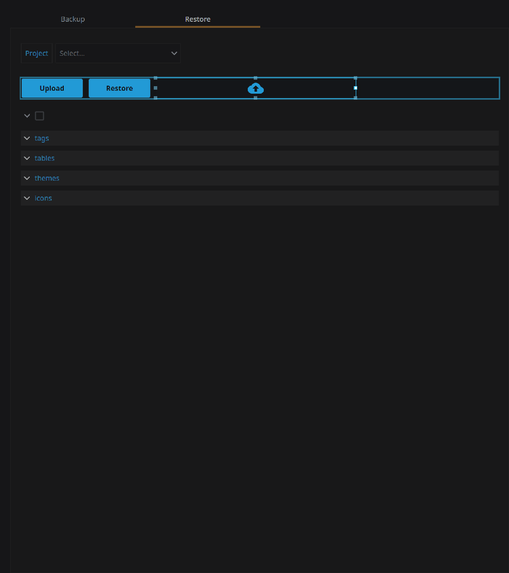
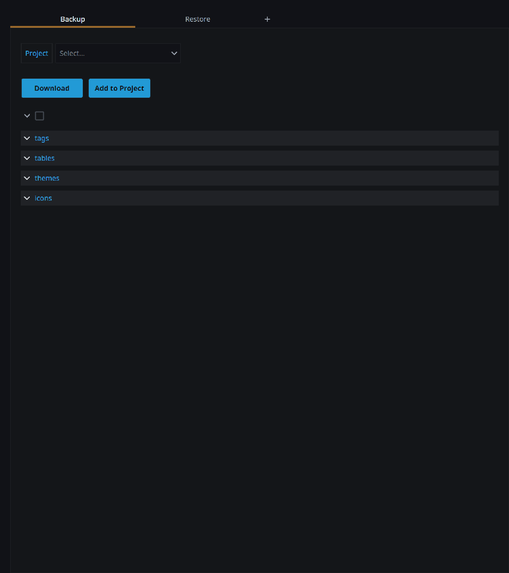
Add restore from zip file

diff --git a/ignition/script-python/backup/util/code.py b/ignition/script-python/backup/util/code.py
@@ -235,27 +235,58 @@ def copyFolder(sourcePath, destinationPath):
 # Company:        A.W. Schultz
 # Date:           June 2023
 #*****************************************************************************************************	
-def getResourceNamesFromProject(resourceType, projectName):
-	"""Copy folder from the temp folder to the project resource folder.
+def getResourceNames(resourcePath):
+	"""Get all file names in a resource folder.
 	
 	Args:
-		resourceType (str): Examples: tags, tables, themes, icons
-		projectName (str): The project name where the resources will be scanned
+		resourcePath (str): Path to directory of a resource type. Example "C:/Program Files/Inductive Automation/Ignition/data/projects/RapidDevToolsCore/resources/themes"
 
 	"""
 	
-	installationPath = settings.getValue('Global','installationPathIA')
-	destinationPath = installationPath + '/Ignition/data/projects/' + projectName + '/resources/' + resourceType
-	
-	
 	names = []
 	
-	if os.path.exists(destinationPath):
-		names = [f for f in os.listdir(destinationPath) if os.path.isfile(destinationPath + '/' + f)]
+	if os.path.exists(resourcePath):
+		names = [f for f in os.listdir(resourcePath) if os.path.isfile(resourcePath + '/' + f)]
 	
 	return names
 	
 	
 	
+#*****************************************************************************************************
+# Author:         Nate Foster
+# Company:        A.W. Schultz
+# Date:           June 2023
+#*****************************************************************************************************	
+def convertFilenameToLabel(filename, resourceType):
+	"""Convert resource filename to a label
+	
+	foo__name1-name2-name3.type => [foo]name1/name2/name3
+	
+	Args:
+		filename (str): Full filename. 
+		resourceType (str) : Examples 'tags', 'tables', 'themes', 'icons'
+
+	"""
+	name = filename
+
+	if resourceType == 'tags':
+		name = '[' + name.replace('__',']')
+		name = name.replace('-','/')
+		name = name.split('.')[0]
+	
+	elif resourceType == 'tables':
+		name = '[' + name.replace('__',']')
+		if '.csv' in name:
+			name = name[:-len('.csv')]
+	
+	elif resourceType == 'themes':
+		if '.css' in name:
+			name = name[:-len('.css')]
+		
+	elif resourceType == 'icons':
+		name = name.split('.')[0]
+
+	return name
+
 	
 	
